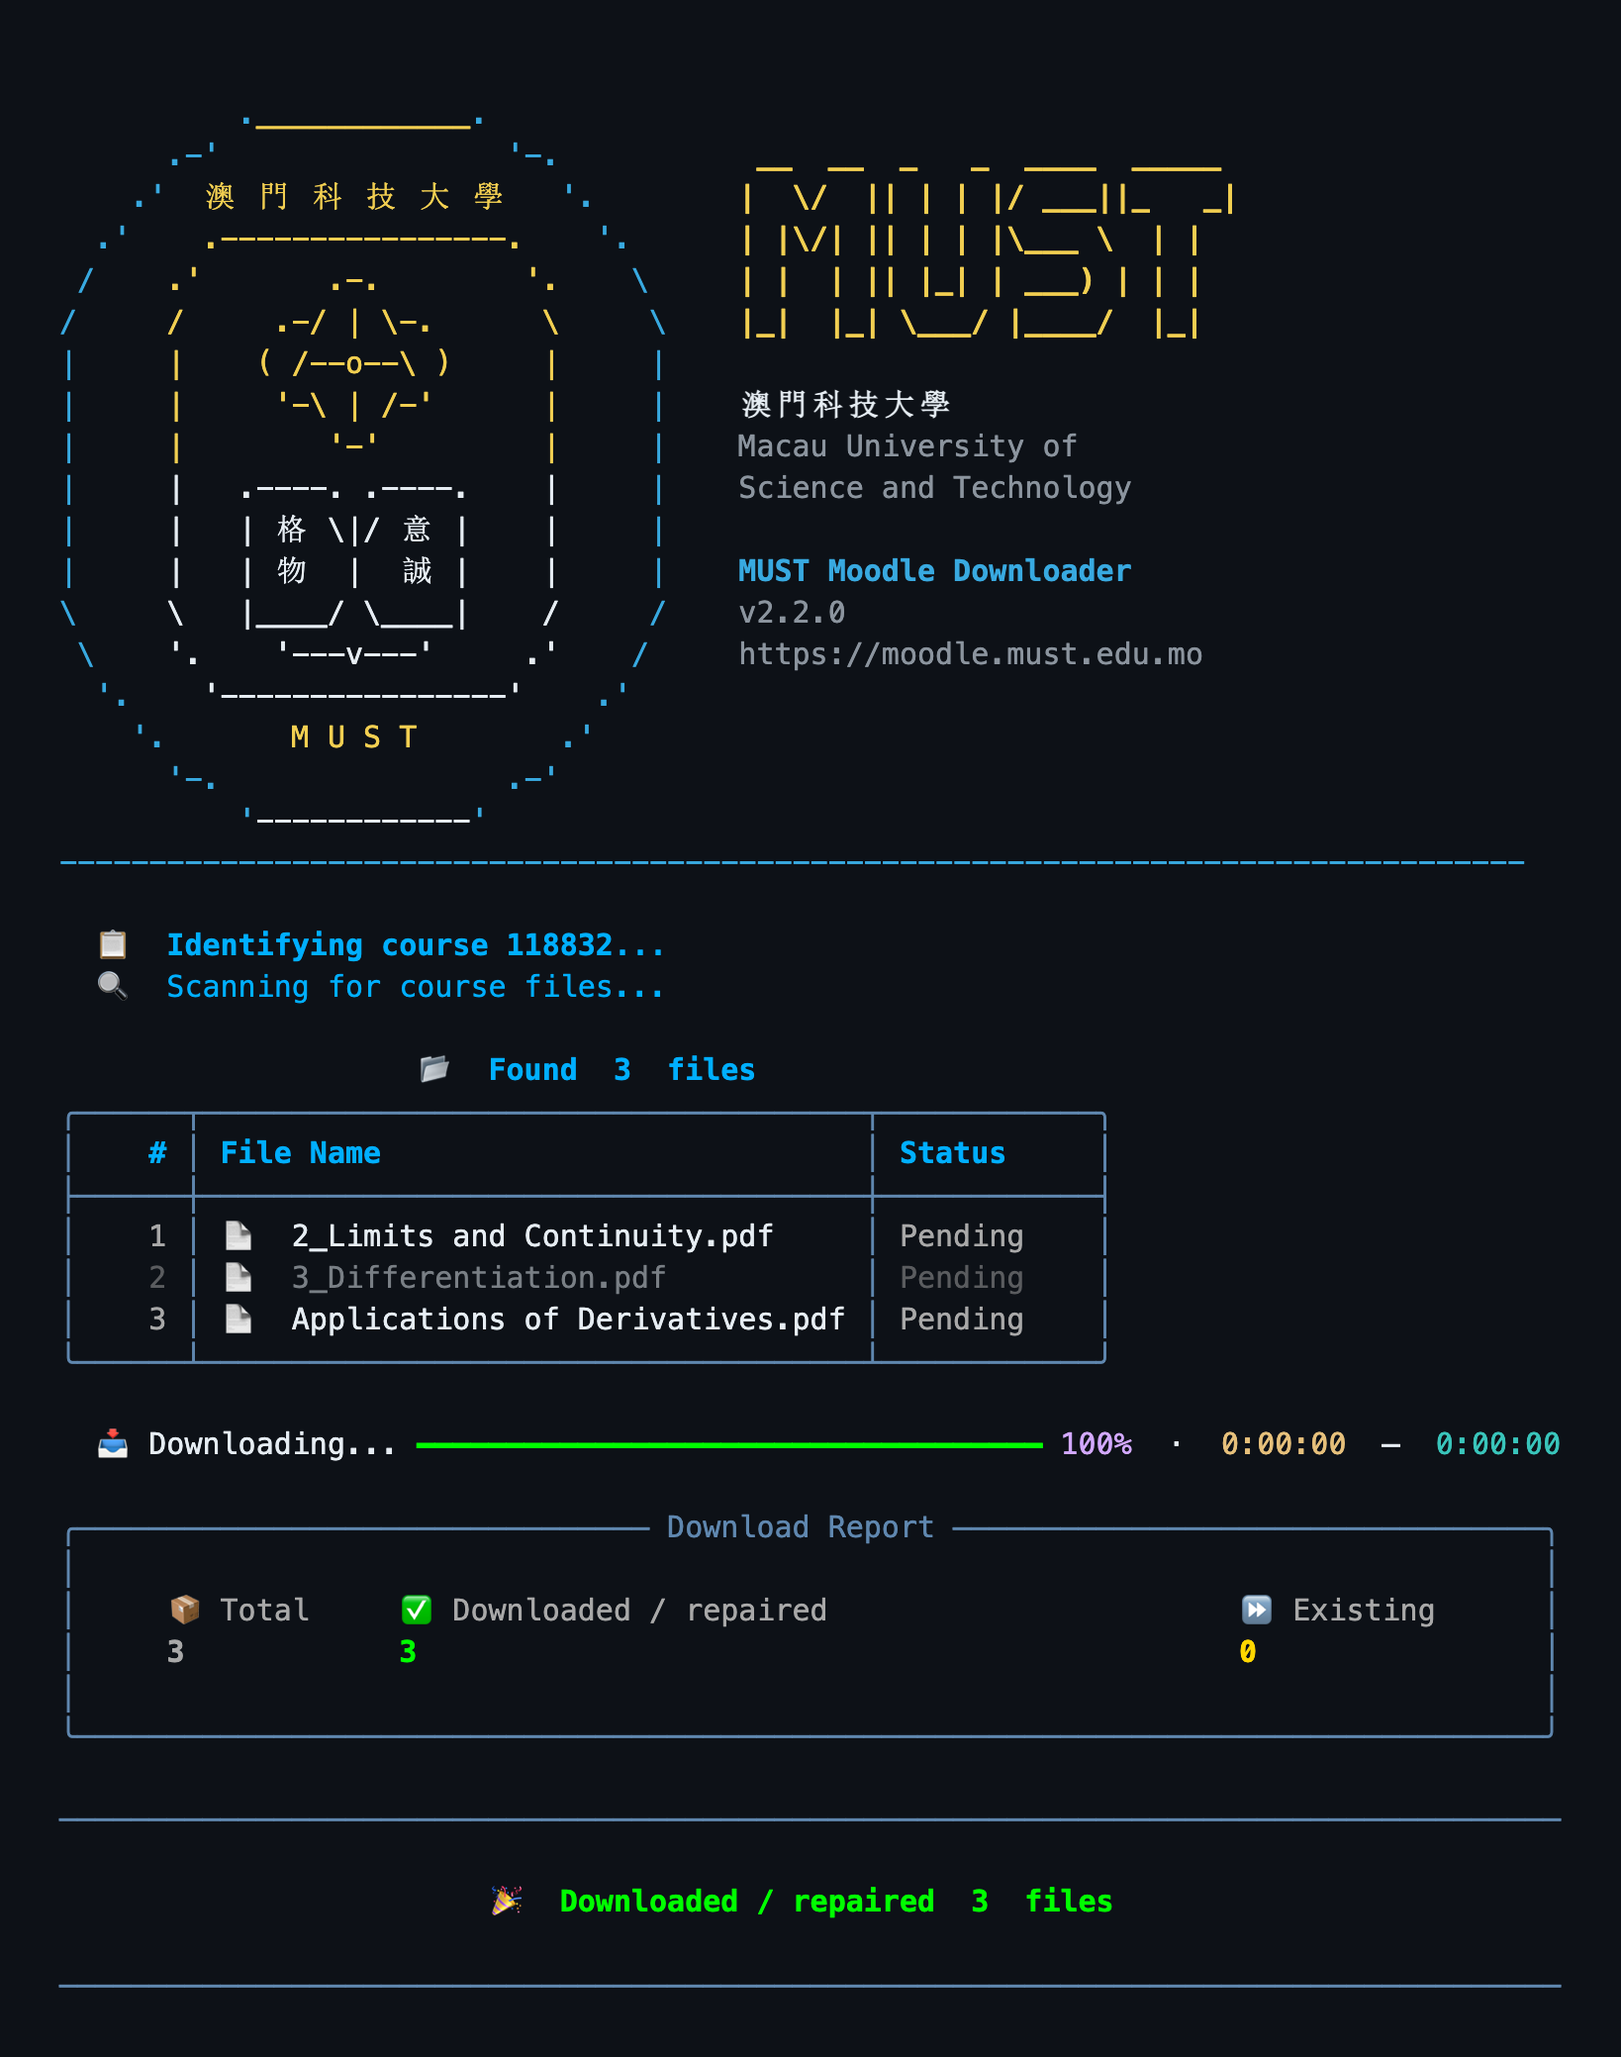
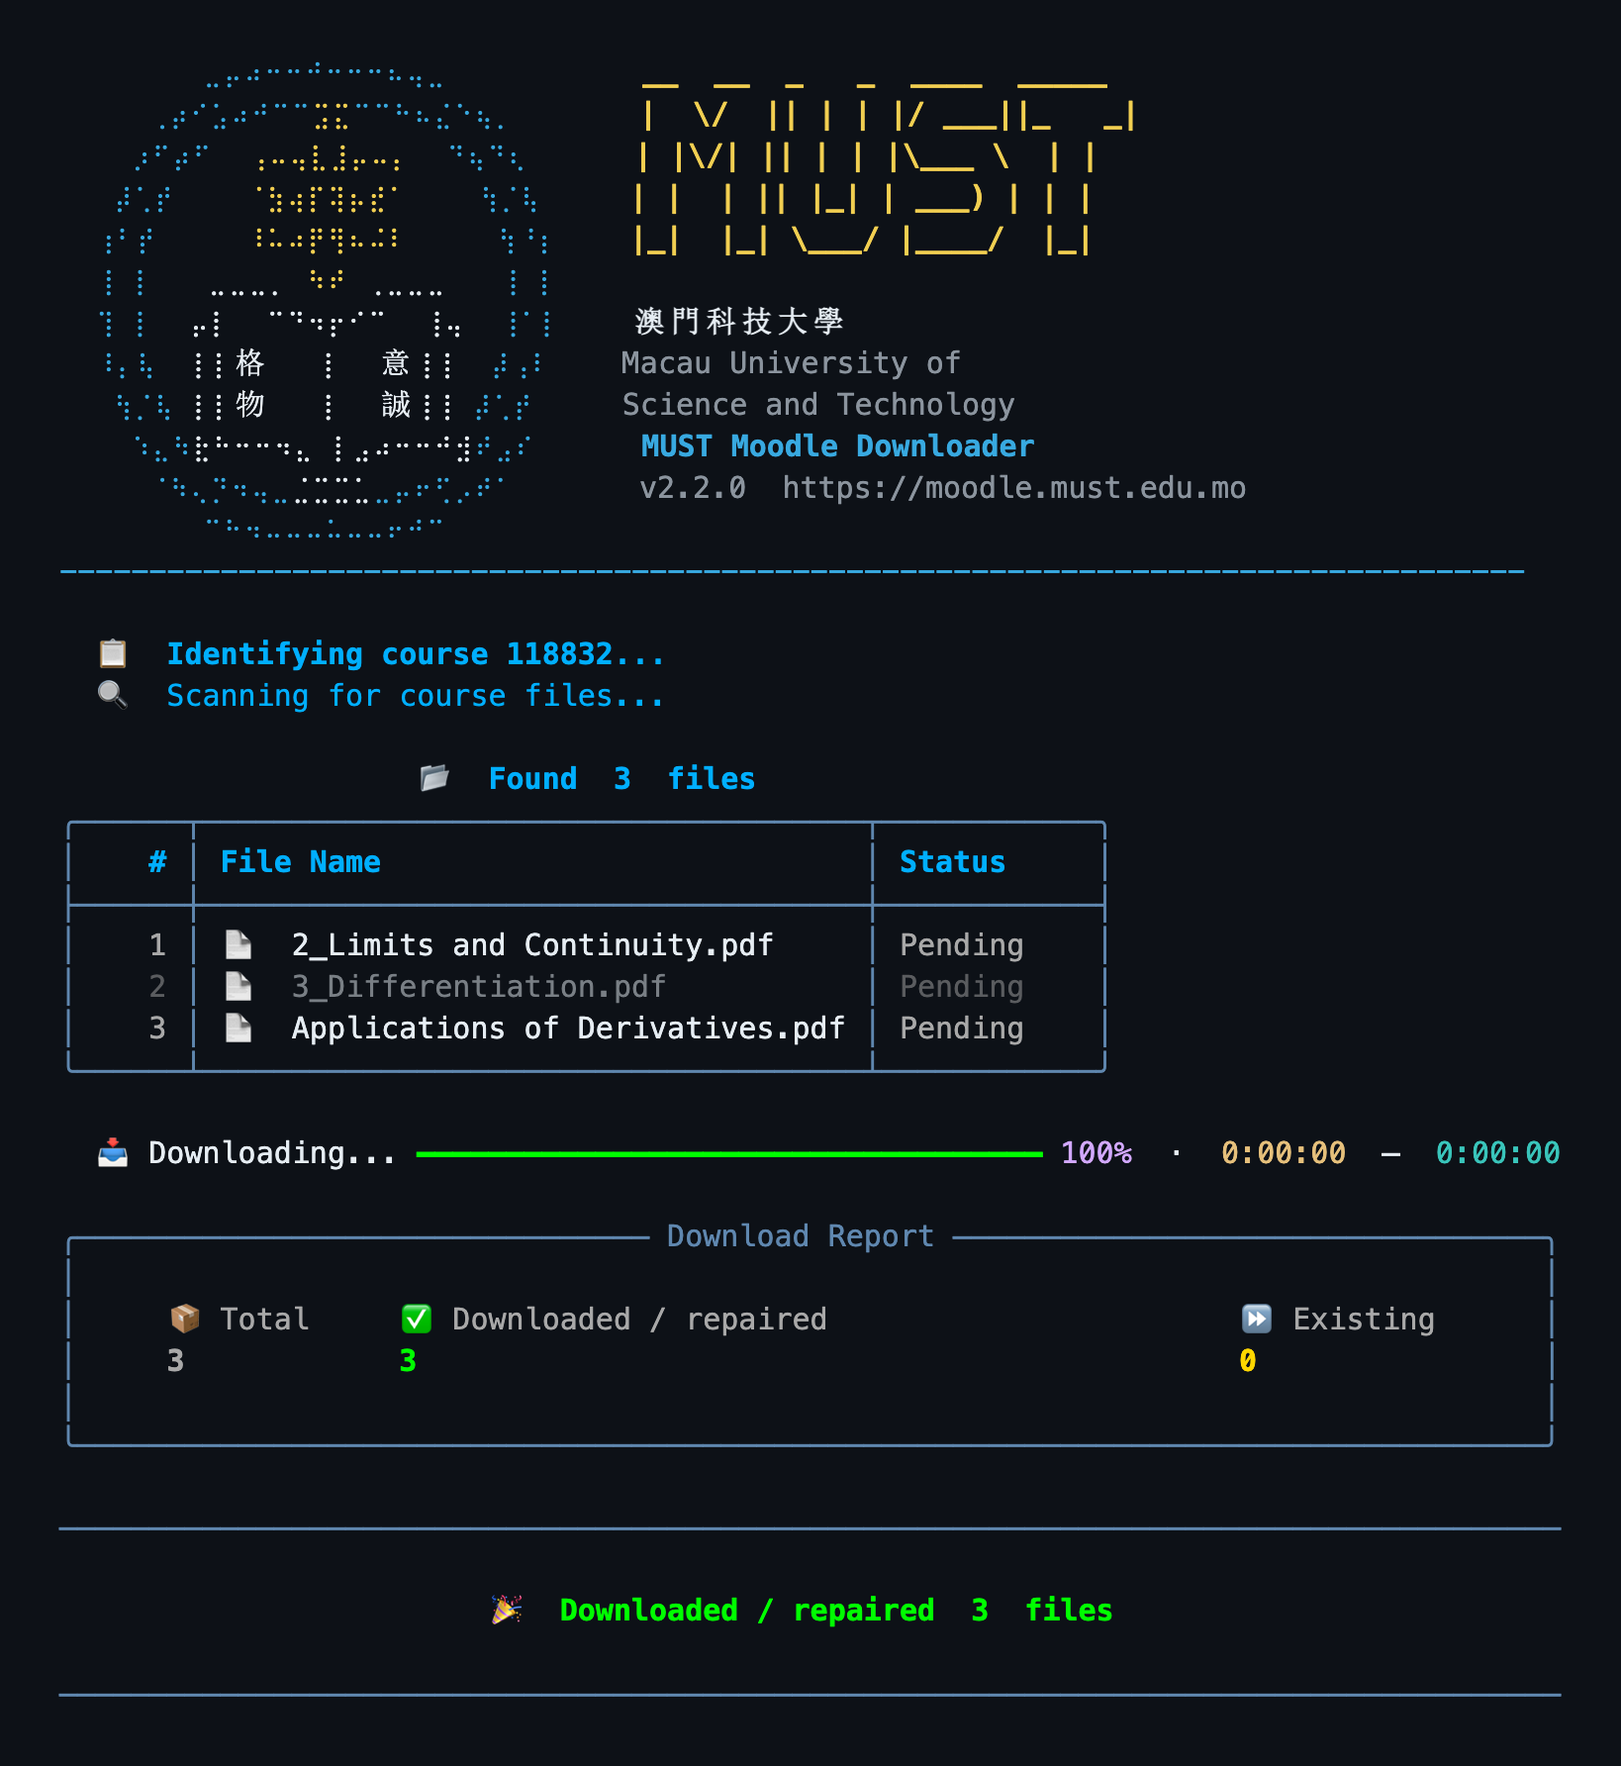
feat: 优化紧凑校徽开场并忽略本地课件

diff --git a/moodle_scraper/banner.py b/moodle_scraper/banner.py
@@ -1,11 +1,13 @@
-"""澳科大校徽的终端字符线稿；不依赖图片、网络或额外字体。
+"""澳科大校徽的紧凑终端描线：双环、三个椭圆轨道及展开书页。
 
-参考 https://www.must.edu.mo/ 首页官方校徽：双环、原子轨道、书本与意誠格物。
-图形刻意简化成普通字符，保证 Windows / macOS 等宽终端中的可读性。
+参考 https://www.must.edu.mo/ 首页官方校徽，以 56 x 48 点网格描线，
+用 Unicode Braille 字符保存轮廓；常规终端共 12 行，不加载图片或访问网络。
+旧 Windows 控制台及不支持相应编码的终端使用普通字符回退。
 """
 from __future__ import annotations
 
-from rich.cells import cell_len
+from itertools import zip_longest
+
 from rich.console import Console
 from rich.text import Text
 
@@ -19,27 +21,21 @@ GOLD = "#f2cf51"
 WHITE = "#e6edf3"
 MUTED = "#8b949e"
 
-# 书页依照原校徽排列：左列格物，右列意誠。中文字属于徽章图形。
-# 每行左右边界对称，内部按终端显示宽度居中（汉字占两格）。
-_CREST: tuple[tuple[int, str, str, str], ...] = (
-    (10, ".", "____________", "."),
-    (6, ".-'", "", "'-."),
-    (4, ".'", "澳 門 科 技 大 學", "'."),
-    (2, ".'", ".----------------.", "'."),
-    (1, "/", ".'       .-.        '.", "\\"),
-    (0, "/", "/     .-/ | \\-.      \\", "\\"),
-    (0, "|", r"|    ( /--o--\ )     |", "|"),
-    (0, "|", r"|     '-\ | /-'      |", "|"),
-    (0, "|", "|        '-'         |", "|"),
-    (0, "|", "|   .----. .----.    |", "|"),
-    (0, "|", r"|   | 格 \|/ 意 |    |", "|"),
-    (0, "|", "|   | 物  |  誠 |    |", "|"),
-    (0, "\\", r"\   |____/ \____|    /", "/"),
-    (1, "\\", "'.    '---v---'     .'", "/"),
-    (2, "'.", "'----------------'", ".'"),
-    (4, "'.", "M U S T", ".'"),
-    (6, "'-.", "", ".-'"),
-    (10, "'", "------------", "'"),
+# 原子轨道取 30 / 90 / 150 度，书页保留弧形页边、双层封面和中缝。
+# 书页字序遵照原校徽：左列格物，右列意誠。各段已按终端单元格对齐。
+_CREST: tuple[tuple[tuple[str, str], ...], ...] = (
+    (('        ⣀⡤⠴⠒⠒⠚⠒⠒⠒⠦⢤⣀        ', BLUE),),
+    (('     ⢀⡴⠊⣡⠴⠚⠉⠉', BLUE), ('⣩⣍', GOLD), ('⠉⠉⠓⠦⣌⠑⢦⡀     ', BLUE),),
+    (('    ⡰⠋⡴⠋  ', BLUE), ('⢠⠤⢤⣇⣸⡤⠤⡄', GOLD), ('  ⠙⢦⠙⢆    ', BLUE),),
+    (('   ⡼⢁⡞    ', BLUE), ('⠈⣳⢴⡏⢽⡦⣞⠁', GOLD), ('    ⢳⡈⢧   ', BLUE),),
+    (('  ⢰⠃⡞     ', BLUE), ('⠸⠥⠴⡟⢻⠦⠬⠇', GOLD), ('     ⢳⠘⡆  ', BLUE),),
+    (('  ⢸ ⡇   ', BLUE), ('⣀⣀⣀⡀', WHITE), (' ', BLUE), ('⠳⠞', GOLD), (' ', BLUE), ('⢀⣀⣀⣀', WHITE), ('   ⢸ ⡇  ', BLUE),),
+    (('  ⢹ ⡇  ', BLUE), ('⡤⡇', WHITE), ('  ', BLUE), ('⠉⠙⠲⡖⠊⠉', WHITE), ('  ', BLUE), ('⢸⢤', WHITE), ('  ⢸⠁⡇  ', BLUE),),
+    (('  ⠸⡄⢧  ', BLUE), ('⡇⡇格', WHITE), ('   ', BLUE), ('⡇', WHITE), ('  ', BLUE), ('意⢸⢸', WHITE), ('  ⡼⢠⠇  ', BLUE),),
+    (('   ⢳⡈⢧ ', BLUE), ('⡇⡇物', WHITE), ('   ', BLUE), ('⡇', WHITE), ('  ', BLUE), ('誠⢸⢸', WHITE), (' ⡼⢁⡞   ', BLUE),),
+    (('    ⠱⣄⠳', BLUE), ('⣗⠓⠒⠒⠲⣄', WHITE), (' ', BLUE), ('⡇⣠⠴⠒⠒⠚⣺', WHITE), ('⠞⣠⠎    ', BLUE),),
+    (('     ⠈⠳⢄⡙⠲⢤⣀', BLUE), ('⣈⣉⣉⣁', WHITE), ('⣀⡤⠖⢋⡠⠞⠁     ', BLUE),),
+    (('        ⠉⠓⠲⠤⠤⠤⠥⠤⠤⠖⠚⠉        ', BLUE),),
 )
 
 _WORDMARK = (
@@ -50,63 +46,97 @@ _WORDMARK = (
     r"|_|  |_| \___/ |____/  |_|",
 )
 
+# 非 Unicode 控制台仍能看清原子和书页，不依赖特殊字形。
+_ASCII_CREST = (
+    r"       .-----------.",
+    r"    .-'   .-.-.     '-.",
+    r"  .'    .'\ | /'.     '.",
+    r" /      (_-\o/-_)       \ ",
+    r"|         '-'-'          |",
+    r"|    .----._ _.----.     |",
+    r"|    | 格  \|/ 意 |     |",
+    r"|    | 物   |  誠 |     |",
+    r" \   |_____/ \____|    /",
+    r"  '.    '---v---'    .'",
+    r"    '-.__________.-'",
+)
 
-def _crest(*, ascii_only: bool = False) -> list[Text]:
+_SMALL_CREST = (
+    r"      .-(-)-.",
+    r"     (\ / \ /)",
+    r"     (/- o -\)",
+    r"      '-(-)-'",
+    r"  .----._ _.----.",
+    r"  | 格  \|/ 意 |",
+    r"  | 物   |  誠 |",
+    r"  |_____/ \____|",
+)
+
+
+def _encodable(text: str, encoding: str) -> bool:
+    try:
+        text.encode(encoding)
+        return True
+    except (UnicodeEncodeError, LookupError):
+        return False
+
+
+def _plain_crest(lines: tuple[str, ...], *, ascii_only: bool) -> list[Text]:
     rows: list[Text] = []
-    width = 34
-    for i, (indent, left, center, right) in enumerate(_CREST):
+    for line in lines:
         if ascii_only:
-            center = center.replace("澳 門 科 技 大 學", "M A C A U   U S T")
-            center = center.replace("格", "GE").replace("物", "WU")
-            center = center.replace("意", "YI").replace("誠", "CH")
-        room = width - 2 * indent - len(left) - len(right)
-        padding = max(0, room - cell_len(center))
-        row = Text(" " * indent + left + " " * (padding // 2), style=BLUE)
-        row.append(center, style=GOLD if i <= 8 or i == 15 else WHITE)
-        row.append(" " * (padding - padding // 2) + right, style=BLUE)
-        rows.append(row)
+            line = line.replace("格", "GE").replace("物", "WU")
+            line = line.replace("意", "YI").replace("誠", "CH")
+        rows.append(Text(line, style=GOLD))
     return rows
 
 
+def _crest() -> list[Text]:
+    return [Text.assemble(*row) for row in _CREST]
+
+
 def print_startup_banner(console: Console, config: AppConfig) -> None:
-    """真实字符输出；窄终端纵排，重定向输出也不含额外 ANSI 转义。"""
+    """标准宽度开场含分隔线和空行共 14 行；48 列窗口最多 15 行。"""
     encoding = console.encoding or "utf-8"
-    try:
-        "澳門科技大學意誠格物".encode(encoding)
-        ascii_only = False
-    except (UnicodeEncodeError, LookupError):
-        ascii_only = True
+    ascii_only = not _encodable("澳門科技大學意誠格物", encoding)
+    detailed = not ascii_only and not console.legacy_windows and _encodable("⠒⢧⣉", encoding)
     width = max(1, console.width)
-    crest = _crest(ascii_only=ascii_only)
     name = t("banner.school_ascii" if ascii_only else "banner.school")
-    details = [
-        Text(name, style=f"bold {WHITE}"),
-        Text(t("banner.school_en_1"), style=MUTED),
-        Text(t("banner.school_en_2"), style=MUTED),
-        Text(),
-        Text(t("banner.product_ascii" if ascii_only else "banner.product"), style=f"bold {BLUE}"),
-        Text(f"v{__version__}", style=MUTED),
-        Text(config.moodle_url.rstrip("/"), style=MUTED),
-    ]
-    console.print()
-    if width >= 72:
-        right = [Text(), *[Text(line, style=f"bold {GOLD}") for line in _WORDMARK], Text(), *details]
-        for index, left in enumerate(crest):
-            row = left.copy()
-            row.append(" " * (38 - row.cell_len))
-            if index < len(right):
-                row.append_text(right[index])
-            console.print(row)
+    product = t("banner.product_ascii" if ascii_only else "banner.product")
+    site = config.moodle_url.rstrip("/")
+
+    if width < 44:
+        console.print(Text(name, style=f"bold {WHITE}"))
+        for line in _plain_crest(_SMALL_CREST, ascii_only=ascii_only):
+            console.print(line, overflow="crop", no_wrap=True)
+        console.print(Text(product, style=f"bold {BLUE}"))
+        console.print(Text(site, style=MUTED))
     else:
-        if width >= 34:
-            for line in crest:
-                console.print(line)
+        crest = _crest() if detailed else _plain_crest(_ASCII_CREST, ascii_only=ascii_only)
+        if width >= 68:
+            right = [
+                *[Text(line, style=f"bold {GOLD}") for line in _WORDMARK],
+                Text(),
+                Text(name, style=f"bold {WHITE}"),
+                Text(t("banner.school_en_1"), style=MUTED),
+                Text(t("banner.school_en_2"), style=MUTED),
+                Text(product, style=f"bold {BLUE}"),
+                Text(f"v{__version__}  {site}", style=MUTED),
+            ]
         else:
-            # 极窄窗口缩为书本与原子，避免把校徽强行折行。
-            for line in ("     .-o-.", r"    ( /|\ )", "     '-o-'", " .----. .----.", r" |    \|/    |", r" |____/ \____|", "      MUST"):
-                console.print(Text(line, style=GOLD), overflow="crop", no_wrap=True)
-        console.print()
-        for line in details:
-            console.print(line)
+            right = [
+                Text("MUST", style=f"bold {GOLD}"),
+                Text(t("banner.school_compact_ascii") if ascii_only else name, style=f"bold {WHITE}"),
+                Text(),
+                Text(t("banner.product_short_ascii" if ascii_only else "banner.product_short"), style=BLUE),
+                Text(f"v{__version__}", style=MUTED),
+            ]
+        for left, description in zip_longest(crest, right, fillvalue=Text()):
+            row = left.copy()
+            row.append(" " * max(0, 30 - row.cell_len))
+            row.append_text(description)
+            console.print(row)
+        if width < 68:
+            console.print(Text(site, style=MUTED))
     console.print(Text("-" * min(width, 82), style=BLUE))
     console.print()

diff --git a/tests/test_banner.py b/tests/test_banner.py
@@ -103,3 +103,29 @@ def test_child_skips_banner_but_still_runs_local_operation(monkeypatch, tmp_path
     assert app.main_impl(AppConfig(), study_root=str(tmp_path)) == 0
     assert '澳門科技大學' not in stream.getvalue()
     assert str(tmp_path) in stream.getvalue().replace('\n', '').replace(' ', '')
+
+
+@pytest.mark.parametrize('width,maximum', [(24,16),(34,16),(48,15),(68,14),(80,14),(120,14)])
+@pytest.mark.parametrize('language', ['zh','en'])
+def test_compact_opening_does_not_push_the_operation_off_screen(width, maximum, language) -> None:
+    stream = StringIO()
+    set_language(language)
+    # Explicit height also fixes the width when tests run under TERM=dumb.
+    console = Console(file=stream, width=width, height=30, force_terminal=True, color_system=None)
+    print_startup_banner(console, AppConfig())
+    output = stream.getvalue()
+    assert len(output.splitlines()) <= maximum
+    assert all(cell_len(line) <= width for line in output.splitlines())
+    if width >= 44:
+        assert any('\u2800' <= char <= '\u28ff' for char in output)
+        assert all(char in output for char in '格物意誠')
+
+
+def test_legacy_windows_keeps_readable_outline_without_braille() -> None:
+    stream = StringIO()
+    console = Console(file=stream, width=80, height=30, legacy_windows=True, color_system=None)
+    print_startup_banner(console, AppConfig())
+    output = stream.getvalue()
+    assert not any('\u2800' <= char <= '\u28ff' for char in output)
+    assert '澳門科技大學' in output and 'MUST Moodle' in output
+    assert len(output.splitlines()) <= 14

diff --git a/moodle_scraper/i18n.py b/moodle_scraper/i18n.py
@@ -9,6 +9,9 @@ from __future__ import annotations
 DEFAULT_LANGUAGE = "zh"
 
 _ZH: dict[str, str] = {
+    "banner.school_compact_ascii": "MACAU UST",
+    "banner.product_short_ascii": "Moodle sync",
+    "banner.product_short": 'Moodle 下载器',
     "banner.school_ascii": "MACAU UNIVERSITY",
     "banner.school_en_1": "Macau University of",
     "banner.school_en_2": "Science and Technology",
@@ -170,6 +173,9 @@ _ZH: dict[str, str] = {
 }
 
 _EN: dict[str, str] = {
+    "banner.school_compact_ascii": "MACAU UST",
+    "banner.product_short_ascii": "Moodle sync",
+    "banner.product_short": 'Moodle sync',
     "banner.school_ascii": "MACAU UNIVERSITY",
     "banner.school_en_1": "Macau University of",
     "banner.school_en_2": "Science and Technology",

diff --git a/README.md b/README.md
@@ -9,7 +9,7 @@
 
 默认站点为 [MUST Moodle](https://moodle.must.edu.mo/my/)。本工具供学生下载自己已注册课程的资料，用于个人离线学习；请遵守学校的使用规定及课件版权要求。
 
-启动后会先显示澳科大校徽字符线稿与 MUST 字样，再进入登录、选课或本地学习功能。线稿参考[澳科大官网](https://www.must.edu.mo/)校徽的圆环、原子轨道、书本及“意誠格物”，使用普通终端字符；窄窗口自动改为纵向排版。Windows 双击菜单共用这套开场，进入子功能时不重复显示，MCP 直连仍只输出协议消息。
+启动后会先显示澳科大校徽字符线稿与 MUST 字样，再进入登录、选课或本地学习功能。线稿参考[澳科大官网](https://www.must.edu.mo/)校徽的圆环、原子轨道、书本及“意誠格物”，使用 12 行 Unicode 字符描线，突出三条原子轨道和展开书页；常规窗口整个开场共 14 行，48 列窗口最多 15 行，旧 Windows 控制台自动使用普通字符。Windows 双击菜单共用这套开场，进入子功能时不重复显示，MCP 直连仍只输出协议消息。
 
 ![MUST 终端界面示例](assets/demo-zh.png)
 
@@ -247,7 +247,7 @@ moodle_downloader_for_MUST/
 
 当前命令行流程会按课程生成相对当前工作目录的保存路径，**`[paths].save_dir` 不是全部课程的统一下载根目录**。为复用已有课件与登录缓存，请每次从同一个目录运行，并保留课程目录名称。
 
-下载的课件属于本地资料，不应随代码提交。Cookie 和同步记录已由 `.gitignore` 排除，但并非所有课程目录名称都在忽略规则中；提交代码时请检查暂存文件列表。
+下载课件属于本地资料，不随源码提交。Cookie、同步记录、`downloads/` 和名称含 MUST 学期 / 班级代码的课程目录已加入 `.gitignore`；忽略规则不会删除课件。需要干净源码副本时，重新克隆本仓库即可，旧目录中的课件和登录状态不会被带入。
 
 ## 常用配置
 

diff --git a/AGENTS.md b/AGENTS.md
@@ -58,4 +58,6 @@ moodle_scraper/
 
 - Windows 的 `启动下载器.bat` 只负责定位仓库和 Python / 依赖检查；`windows_launcher.py` 通过参数列表调用既有 `main.py`，不要复制下载逻辑。`--mcp` 转发到 `mcp_server`，标准输出不能混入菜单。
 
-- `banner.py` 提供 MUST 校徽字符开场，在认证前由 `RichUI.welcome()` 显示；Windows 菜单共用此函数，子进程用内部环境标记避免重复。MCP 标准输出只允许协议消息，不能加入开场。
+- `banner.py` 提供 MUST 校徽字符开场，在认证前由 `RichUI.welcome()` 显示；Windows 菜单共用此函数，子进程用内部环境标记避免重复。MCP 标准输出只允许协议消息，不能加入开场。校徽使用 12 行 Unicode 描线，标准开场上限 14 行，48 列窗口上限 15 行；旧 Windows 控制台保留普通字符回退。
+
+- MUST 下载课程目录中的学期 / 班级代码匹配 `.gitignore` 的 `/*_-_[0-9][0-9][0-9][0-9]-*/`，这些目录是本地资料，不是源码；不要提交课件或登录状态。
